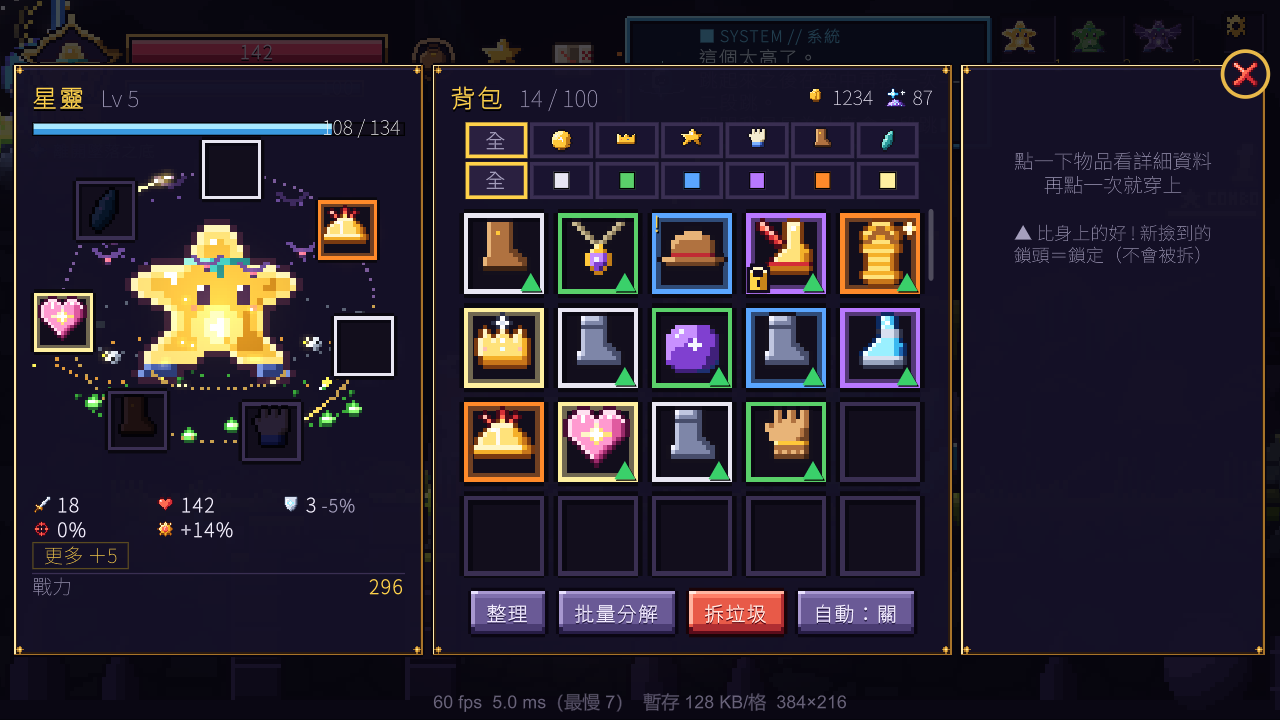
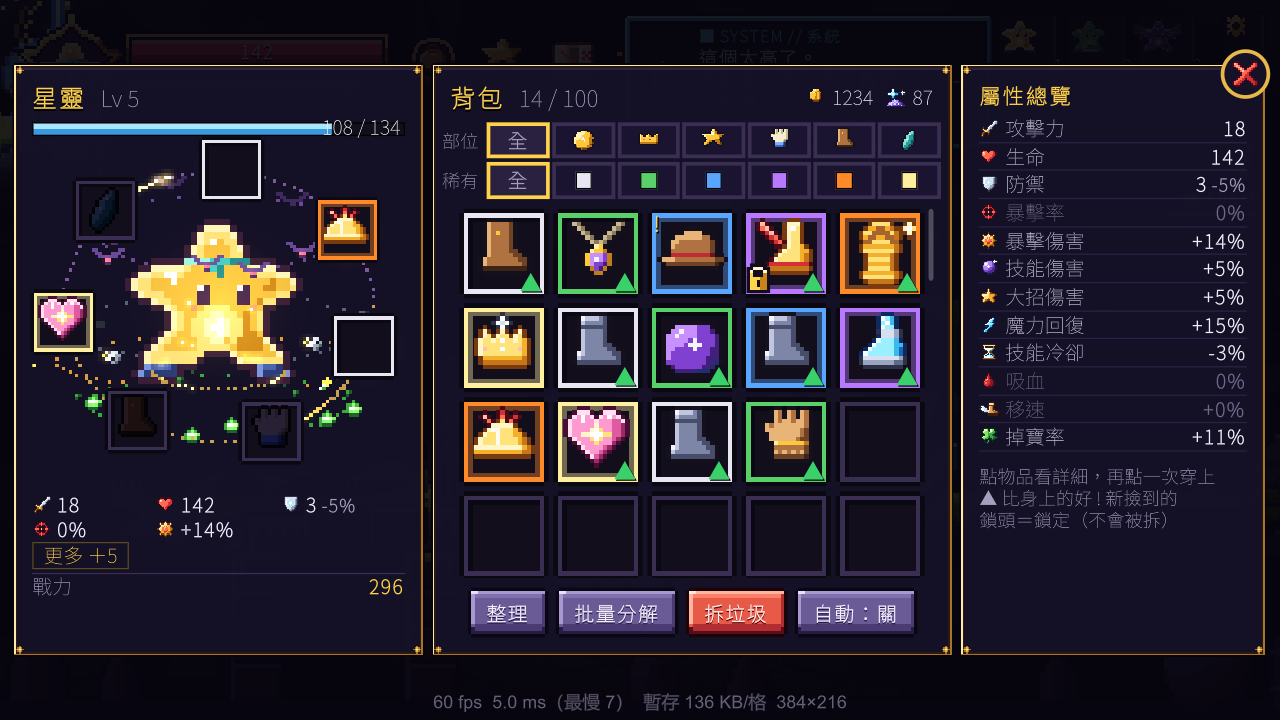
介面第二批（Unity）：背包右欄改成屬性總覽、篩選鈕加標示、任務完成改中文緞帶、橫幅與小字放大、旅館視窗
- 背包：沒選物品時右欄列出全部屬性＋操作說明（原本整欄空白）；兩排篩選鈕前面加「部位／稀有」；打開時後面的 HUD 不再透出來
- 交付任務：英文的 QUEST COMPLETE 換成視窗中間的紅緞帶「任務完成！」
- 資源橫幅的說明字、任務追蹤、居民泡泡的字放大
- 旅館／工坊的大卡片加寬、往下移，視窗不再上面擠一小塊

diff --git a/unity/Assets/Scripts/Runtime/UI/Inventory.cs b/unity/Assets/Scripts/Runtime/UI/Inventory.cs
@@ -79,7 +79,7 @@ namespace ZeroStar.UI
 
         public Inventory(VisualElement parent)
         {
-            overlay = Box(parent, "inv"); Abs(overlay, 0, 0, 0, 0); overlay.style.backgroundColor = C("#06040c", 0.72f); overlay.style.display = DisplayStyle.None;
+            overlay = Box(parent, "inv"); Abs(overlay, 0, 0, 0, 0); overlay.style.backgroundColor = C("#06040c", 0.9f); overlay.style.display = DisplayStyle.None;
             overlay.pickingMode = PickingMode.Position;
             overlay.RegisterCallback<PointerDownEvent>(e => { if (e.target == overlay) Close(); });
             box = Box(overlay, "invBox"); Size(box, 760, 360); Abs(box); box.style.left = Length.Percent(50); box.style.top = Length.Percent(50);
@@ -107,8 +107,11 @@ namespace ZeroStar.UI
             var bt = Row(bag); Text(bt, "背包", 15, "#ffd24a", true, 2).style.letterSpacing = 2; bagN = Text(bt, "", 14, "#a59fbd"); bagN.style.marginLeft = 8;
             var cur = Row(bt); cur.style.marginLeft = StyleKeyword.Auto; Win.Ico(cur, "coin", 14).style.marginRight = 3; coinsEl = Text(cur, "", 12, "#f2eefc"); coinsEl.style.marginRight = 6;
             Win.Ico(cur, "scrap", 14).style.marginRight = 3; scrapEl = Text(cur, "", 12, "#f2eefc");
-            filterPart = Row(bag); filterPart.style.justifyContent = Justify.Center; filterPart.style.marginTop = 6;
-            filterRar = Row(bag); filterRar.style.justifyContent = Justify.Center; filterRar.style.marginTop = 2; filterRar.style.marginBottom = 6;
+            // 2026-11-12：兩排篩選鈕前面各加一個小標示（部位／稀有），看得出各自是篩什麼
+            var fpRow = Row(bag); fpRow.style.justifyContent = Justify.Center; fpRow.style.marginTop = 6; { var fl = Text(fpRow, "部位", 11, "#a59fbd"); fl.style.marginRight = 4; fl.style.whiteSpace = WhiteSpace.NoWrap; fl.style.flexShrink = 0; }
+            filterPart = Row(fpRow);
+            var frRow = Row(bag); frRow.style.justifyContent = Justify.Center; frRow.style.marginTop = 2; frRow.style.marginBottom = 6; { var fl = Text(frRow, "稀有", 11, "#a59fbd"); fl.style.marginRight = 4; fl.style.whiteSpace = WhiteSpace.NoWrap; fl.style.flexShrink = 0; }
+            filterRar = Row(frRow);
             foreach (var (k, ic, n) in PARTS) { string key = k; FBtn(filterPart, ic, ic == null ? "全" : null, null, () => { fPart = key; Render(); }).userData = "p:" + k; }
             FBtn(filterRar, null, "全", null, () => { fRar = -1; Render(); }).userData = "r:-1";
             for (int i = 0; i < Items.RARITY.Length; i++) { int r = i; FBtn(filterRar, null, null, Items.RARITY[i].Color, () => { fRar = r; Render(); }).userData = "r:" + i; }
@@ -462,7 +465,22 @@ namespace ZeroStar.UI
                 Empty($"批量分解\n\n已選 <b><color=#f2eefc>{picked.Count}</color></b> 件\n星塵 +{sc}　金幣 +{co}\n\n<size=11>點格子打勾／取消\n「全選」＝選目前篩選的全部\n鎖定的不會被選到</size>");
                 detailScroll.Update(); return;
             }
-            if (it == null) { Empty("點一下物品看詳細資料\n再點一次就穿上\n\n<size=11>▲ 比身上的好　! 新撿到的\n鎖頭＝鎖定（不會被拆）</size>"); detailScroll.Update(); return; }
+            if (it == null)
+            {
+                // 2026-11-12：沒選東西時不要整欄空白，改成列出全部屬性，下面再放操作說明
+                var st0 = Items.ComputeStats(g.Equip, g.Lv, g.CoreBonus);
+                var hd = Text(detail, "屬性總覽", 13, "#ffd24a", true); hd.style.letterSpacing = 2; hd.style.marginBottom = 4;
+                foreach (var row in STAT_ROWS)
+                {
+                    double v = row.v(st0);
+                    var r = Row(detail); r.style.justifyContent = Justify.SpaceBetween; r.style.height = 17; r.style.borderBottomWidth = 1; r.style.borderBottomColor = C("#2a2244");
+                    var left = Row(r); if (STAT_ICON.TryGetValue(row.k, out var ic)) Win.Ico(left, ic, 12).style.marginRight = 4;
+                    Text(left, row.n, 12, v != 0 ? "#c9c2dc" : "#6f6888");
+                    var val = Text(r, row.f(v), 12, v != 0 ? "#f2eefc" : "#6f6888", true); val.enableRichText = true;
+                }
+                var tip = Text(detail, "點物品看詳細，再點一次穿上\n▲ 比身上的好　! 新撿到的\n鎖頭＝鎖定（不會被拆）", 11, "#a59fbd"); tip.style.whiteSpace = WhiteSpace.Normal; tip.style.marginTop = 8;
+                detailScroll.Update(); return;
+            }
             ItemCard(detail, it);
             if (it.Unique != null && UNIQUE_TEXT.TryGetValue(it.Unique, out var u)) Lore(detail, u.lore);
             // 神話：五種形態各自的效果（目前的形態亮）、覺醒階段與進度、解鎖的故事

diff --git a/unity/Assets/Scripts/Runtime/UI/Win.cs b/unity/Assets/Scripts/Runtime/UI/Win.cs
@@ -52,6 +52,11 @@ namespace ZeroStar.UI
             body.Content.style.paddingTop = 6; body.Content.style.paddingLeft = body.Content.style.paddingRight = 2; body.Content.style.paddingBottom = 2;
             msgEl = Text(box, "", 14, null, true); Abs(msgEl, null, null, null, 6); msgEl.style.left = Length.Percent(50); msgEl.style.translate = new Translate(Length.Percent(-50), 0);
             msgEl.style.paddingLeft = msgEl.style.paddingRight = 14; msgEl.style.paddingTop = msgEl.style.paddingBottom = 3; Round(msgEl, 12); msgEl.style.opacity = 0; msgEl.style.whiteSpace = WhiteSpace.NoWrap;
+            // 蓋在視窗中間的一條紅緞帶大字（任務完成！）
+            stamp = Box(box, "stamp"); Abs(stamp, 0, null, 0); stamp.style.top = Length.Percent(40); stamp.style.height = 46; stamp.style.backgroundColor = C("#a82432", 0.96f);
+            stamp.style.borderTopWidth = stamp.style.borderBottomWidth = 2; stamp.style.borderTopColor = stamp.style.borderBottomColor = C("#ffd24a");
+            stamp.style.alignItems = Align.Center; stamp.style.justifyContent = Justify.Center; stamp.style.display = DisplayStyle.None;
+            stampText = Text(stamp, "", 26, "#fff0b0", true, 2, "#4a0c14"); stampText.style.letterSpacing = 8;
             fxLayer = Box(box, "tfx"); Abs(fxLayer, -16, -16, -16, -16); fxLayer.style.overflow = Overflow.Hidden;
             fade = Box(parent, "fade"); Abs(fade, 0, 0, 0, 0); fade.style.backgroundColor = C("#000000"); fade.style.display = DisplayStyle.None;
         }
@@ -76,7 +81,7 @@ namespace ZeroStar.UI
         public void Close()
         {
             if (!Open) return;
-            Open = false; overlay.style.display = DisplayStyle.None;
+            Open = false; overlay.style.display = DisplayStyle.None; stampT = 9; stamp.style.display = DisplayStyle.None;
             Sfx?.Invoke("close");
             var r = done; done = null; r?.TrySetResult(true);
         }
@@ -141,6 +146,18 @@ namespace ZeroStar.UI
             fade.style.opacity = fadeT < 0.3f ? fadeT / 0.3f : fadeT < fadeLen ? 1 : Mathf.Clamp01(1 - (fadeT - fadeLen) / 0.4f);
         }
 
+        // ---- 視窗中間的大字緞帶：跳出來、停 1.2 秒、淡掉（2026-11-12：取代英文的 QUEST COMPLETE）
+        readonly VisualElement stamp; readonly Label stampText; float stampT = 9;
+        public void Stamp(string text) { stampText.text = text; stampT = 0; stamp.style.display = DisplayStyle.Flex; }
+        void UpdateStamp(float dt)
+        {
+            if (stampT > 1.6f) { stamp.style.display = DisplayStyle.None; return; }
+            stampT += dt;
+            float p = Mathf.Clamp01(stampT / 0.15f), sc = Mathf.Lerp(1.5f, 1, EaseOut(p));
+            stamp.style.scale = new Scale(new Vector2(1, Mathf.Lerp(0.2f, 1, p))); stampText.style.scale = new Scale(new Vector2(sc, sc));
+            stamp.style.opacity = stampT < 1.3f ? 1 : Mathf.Clamp01(1 - (stampT - 1.3f) / 0.3f);
+        }
+
         // ---- 結果的一行（綠＝好、紅＝不好），2.2 秒後淡掉
         float msgT;
         public void Msg(string text, bool good = true)
@@ -194,6 +211,7 @@ namespace ZeroStar.UI
         {
             UpdateFade(dt);
             if (!Open) return;
+            UpdateStamp(dt);
             body.Update();
             // 結果那一行
             msgT -= dt;

diff --git a/unity/Assets/Scripts/Runtime/UI/TownWins.cs b/unity/Assets/Scripts/Runtime/UI/TownWins.cs
@@ -92,8 +92,8 @@ namespace ZeroStar.UI
                         g.GuildDone++;
                         g.Money += r.Coins; g.Scrap += r.Scrap; if (r.Xp > 0) g.GainXp(r.Xp);
                         g.Sfx("levelup"); W.Msg("交付完成！"); g.QuestProgress("tick"); W.Render();
-                        // 交付特效：視窗中間蓋一條「QUEST COMPLETE」緞帶，金幣飛向右上的錢
-                        Fx?.At(W.BoxCenter(), "quest-complete", new FxOptions { Seed = g.GuildDone });
+                        // 交付特效：視窗中間蓋一條「任務完成！」緞帶，金幣飛向右上的錢
+                        W.Stamp("任務完成！");
                         if (r.Coins > 0) Fx?.At(W.MoneyCenter(), "coin-collect", new FxOptions { Seed = g.GuildDone }.Set("count", 8));
                     });
                 else if (atGuild) W.IBtn(act, "close", "", () => { Q.Abandon(q.Id); g.Sfx("close"); W.Msg("放棄了任務", false); W.Render(); }, "bad", true);
@@ -276,8 +276,8 @@ namespace ZeroStar.UI
         static string Fmt(double v) => v.ToString("0.##");
         static VisualElement BigCard(VisualElement body, string kind)
         {
-            var big = Win.Card(body, kind, false); big.style.alignItems = Align.Center; big.style.alignSelf = Align.Center; big.style.minWidth = 240;
-            big.style.paddingTop = big.style.paddingBottom = 12 + 10; big.style.marginTop = 4;
+            var big = Win.Card(body, kind, false); big.style.alignItems = Align.Center; big.style.alignSelf = Align.Center; big.style.minWidth = 340;
+            big.style.paddingTop = big.style.paddingBottom = 12 + 22; big.style.marginTop = 26;
             return big;
         }
 
@@ -288,7 +288,7 @@ namespace ZeroStar.UI
             {
                 W.Say(body, "菇媽", "累了就睡一晚吧～");
                 var big = BigCard(body, "inn");
-                Win.Ico(big, "moon", 48).style.marginBottom = 6;
+                Win.Ico(big, "moon", 64).style.marginBottom = 10;
                 var perks = Row(big); perks.style.marginBottom = 6;
                 foreach (var (ic, t) in new[] { ("heart", "生命全滿"), ("check", "存檔"), ("paper", "任務板換新") }) { var s = Row(perks); s.style.marginLeft = s.style.marginRight = 5; Win.Ico(s, ic).style.marginRight = 2; Text(s, t, 12, "#e8f4d8"); }
                 W.IBtn(big, "moon", "睡一晚", async () => { W.Close(); await rest(); });

diff --git a/unity/Assets/Scripts/Runtime/UI/HudFx.cs b/unity/Assets/Scripts/Runtime/UI/HudFx.cs
@@ -63,8 +63,8 @@ namespace ZeroStar.UI
             rbIcon = Box(rbIn); Size(rbIcon, 48, 48); rbIcon.style.marginRight = 14;
             var rbText = Box(rbIn); rbText.style.flexDirection = FlexDirection.Column;
             rbTitle = Text(rbText, "", 22, "#ffd84a", true, 2, "#4a2a08"); rbTitle.style.letterSpacing = 6; rbTitle.style.marginBottom = 2;
-            rbEff = Text(rbText, "", 14, "#ffffff", true, 1); rbEff.style.marginBottom = 2;
-            rbFlavor = Text(rbText, "", 11, "#b8a8d0");
+            rbEff = Text(rbText, "", 16, "#ffffff", true, 1); rbEff.style.marginBottom = 2;
+            rbFlavor = Text(rbText, "", 13, "#b8a8d0");
             resBanner.style.opacity = 0;
 
             // 新形態：中間大字＋後面轉的光芒
@@ -101,7 +101,7 @@ namespace ZeroStar.UI
             // 居民的自言自語泡泡
             bubble = Box(root, "bubble"); Abs(bubble); Nine(bubble, "bubble", 8, 8); bubble.style.translate = new Translate(Length.Percent(-50), Length.Percent(-100));
             bubble.style.paddingLeft = bubble.style.paddingRight = 8 + 6; bubble.style.paddingTop = bubble.style.paddingBottom = 8 + 2; bubble.style.opacity = 0;
-            bubbleText = Text(bubble, "", 12, "#2a1626", true); bubbleText.style.whiteSpace = WhiteSpace.NoWrap;
+            bubbleText = Text(bubble, "", 14, "#2a1626", true); bubbleText.style.whiteSpace = WhiteSpace.NoWrap;
             var tail = Box(bubble); Abs(tail, null, null, null, -6); Size(tail, 14, 8); tail.style.left = Length.Percent(50); tail.style.marginLeft = -7; Img(tail, "bubble-tail");
         }
         static Label TipText(VisualElement p, string s) { var l = Text(p, s, 13, "#fff2c8", true, 1); l.style.whiteSpace = WhiteSpace.NoWrap; return l; }

diff --git a/unity/Assets/Scripts/Runtime/GameRoot.cs b/unity/Assets/Scripts/Runtime/GameRoot.cs
@@ -315,7 +315,7 @@ namespace ZeroStar
                 // 碎星鎮：依序打開任務（公會）、工坊、旅館、主線、地圖（每個 4 秒後自動關）
                 if (tickN == 30) { game.GuildRegistered = true; game.Money = 900; game.Scrap = 120; game.Equip["weapon"] = Items.MakeItem(20, 3, "weapon"); game.Equip["head"] = Items.MakeItem(12, 2, "head"); game.Quests.RefreshBoard(game.UnlockedStages()); game.Quests.Accept(game.Quests.Board[0].Id); game.Quests.Active[0].Have = game.Quests.Active[0].Need; game.Quests.Tracked.Add(game.Quests.Active[0].Id); }
                 if (tickN == 40) _ = ZeroStar.UI.TownWins.OpenQuests(game, true);
-                if (tickN == 110) { uiFx.At(win.BoxCenter(), "quest-complete", new FxOptions { Seed = 1 }); uiFx.At(win.MoneyCenter(), "coin-collect", new FxOptions { Seed = 1 }.Set("count", 8)); }
+                if (tickN == 110) { win.Stamp("任務完成！"); uiFx.At(win.MoneyCenter(), "coin-collect", new FxOptions { Seed = 1 }.Set("count", 8)); }
                 if (tickN == 330) _ = ZeroStar.UI.TownWins.OpenForge(game);
                 if (tickN == 400) uiFx.At(win.BoxCenter(), "parry", new FxOptions { Palette = new[] { "#3a1a06", "#8a4a10", "#e0901c", "#ffc83a", "#ffe98a", "#fff8d8", "#ffffff" }, Light = 0.5, Seed = 3 });
                 if (tickN == 620) _ = ZeroStar.UI.TownWins.OpenInn(game, () => System.Threading.Tasks.Task.CompletedTask);

diff --git a/unity/Assets/Scripts/Runtime/UI/Hud.cs b/unity/Assets/Scripts/Runtime/UI/Hud.cs
@@ -241,7 +241,7 @@ namespace ZeroStar.UI
             {
                 var r = Box(qtrack); r.style.flexDirection = FlexDirection.Row; r.style.alignItems = Align.Center; r.style.minHeight = 19;
                 var ic = Box(r); Size(ic, 16, 16); Img(ic, "icons/" + icon); ic.style.marginRight = 3; ic.style.flexShrink = 0;
-                var l = Text(r, text, 12, col, true, 1); l.enableRichText = true;
+                var l = Text(r, text, 13, col, true, 1); l.enableRichText = true;
                 return r;
             }
             if (main != null) Line("xp", main, "#a8f0ff");
